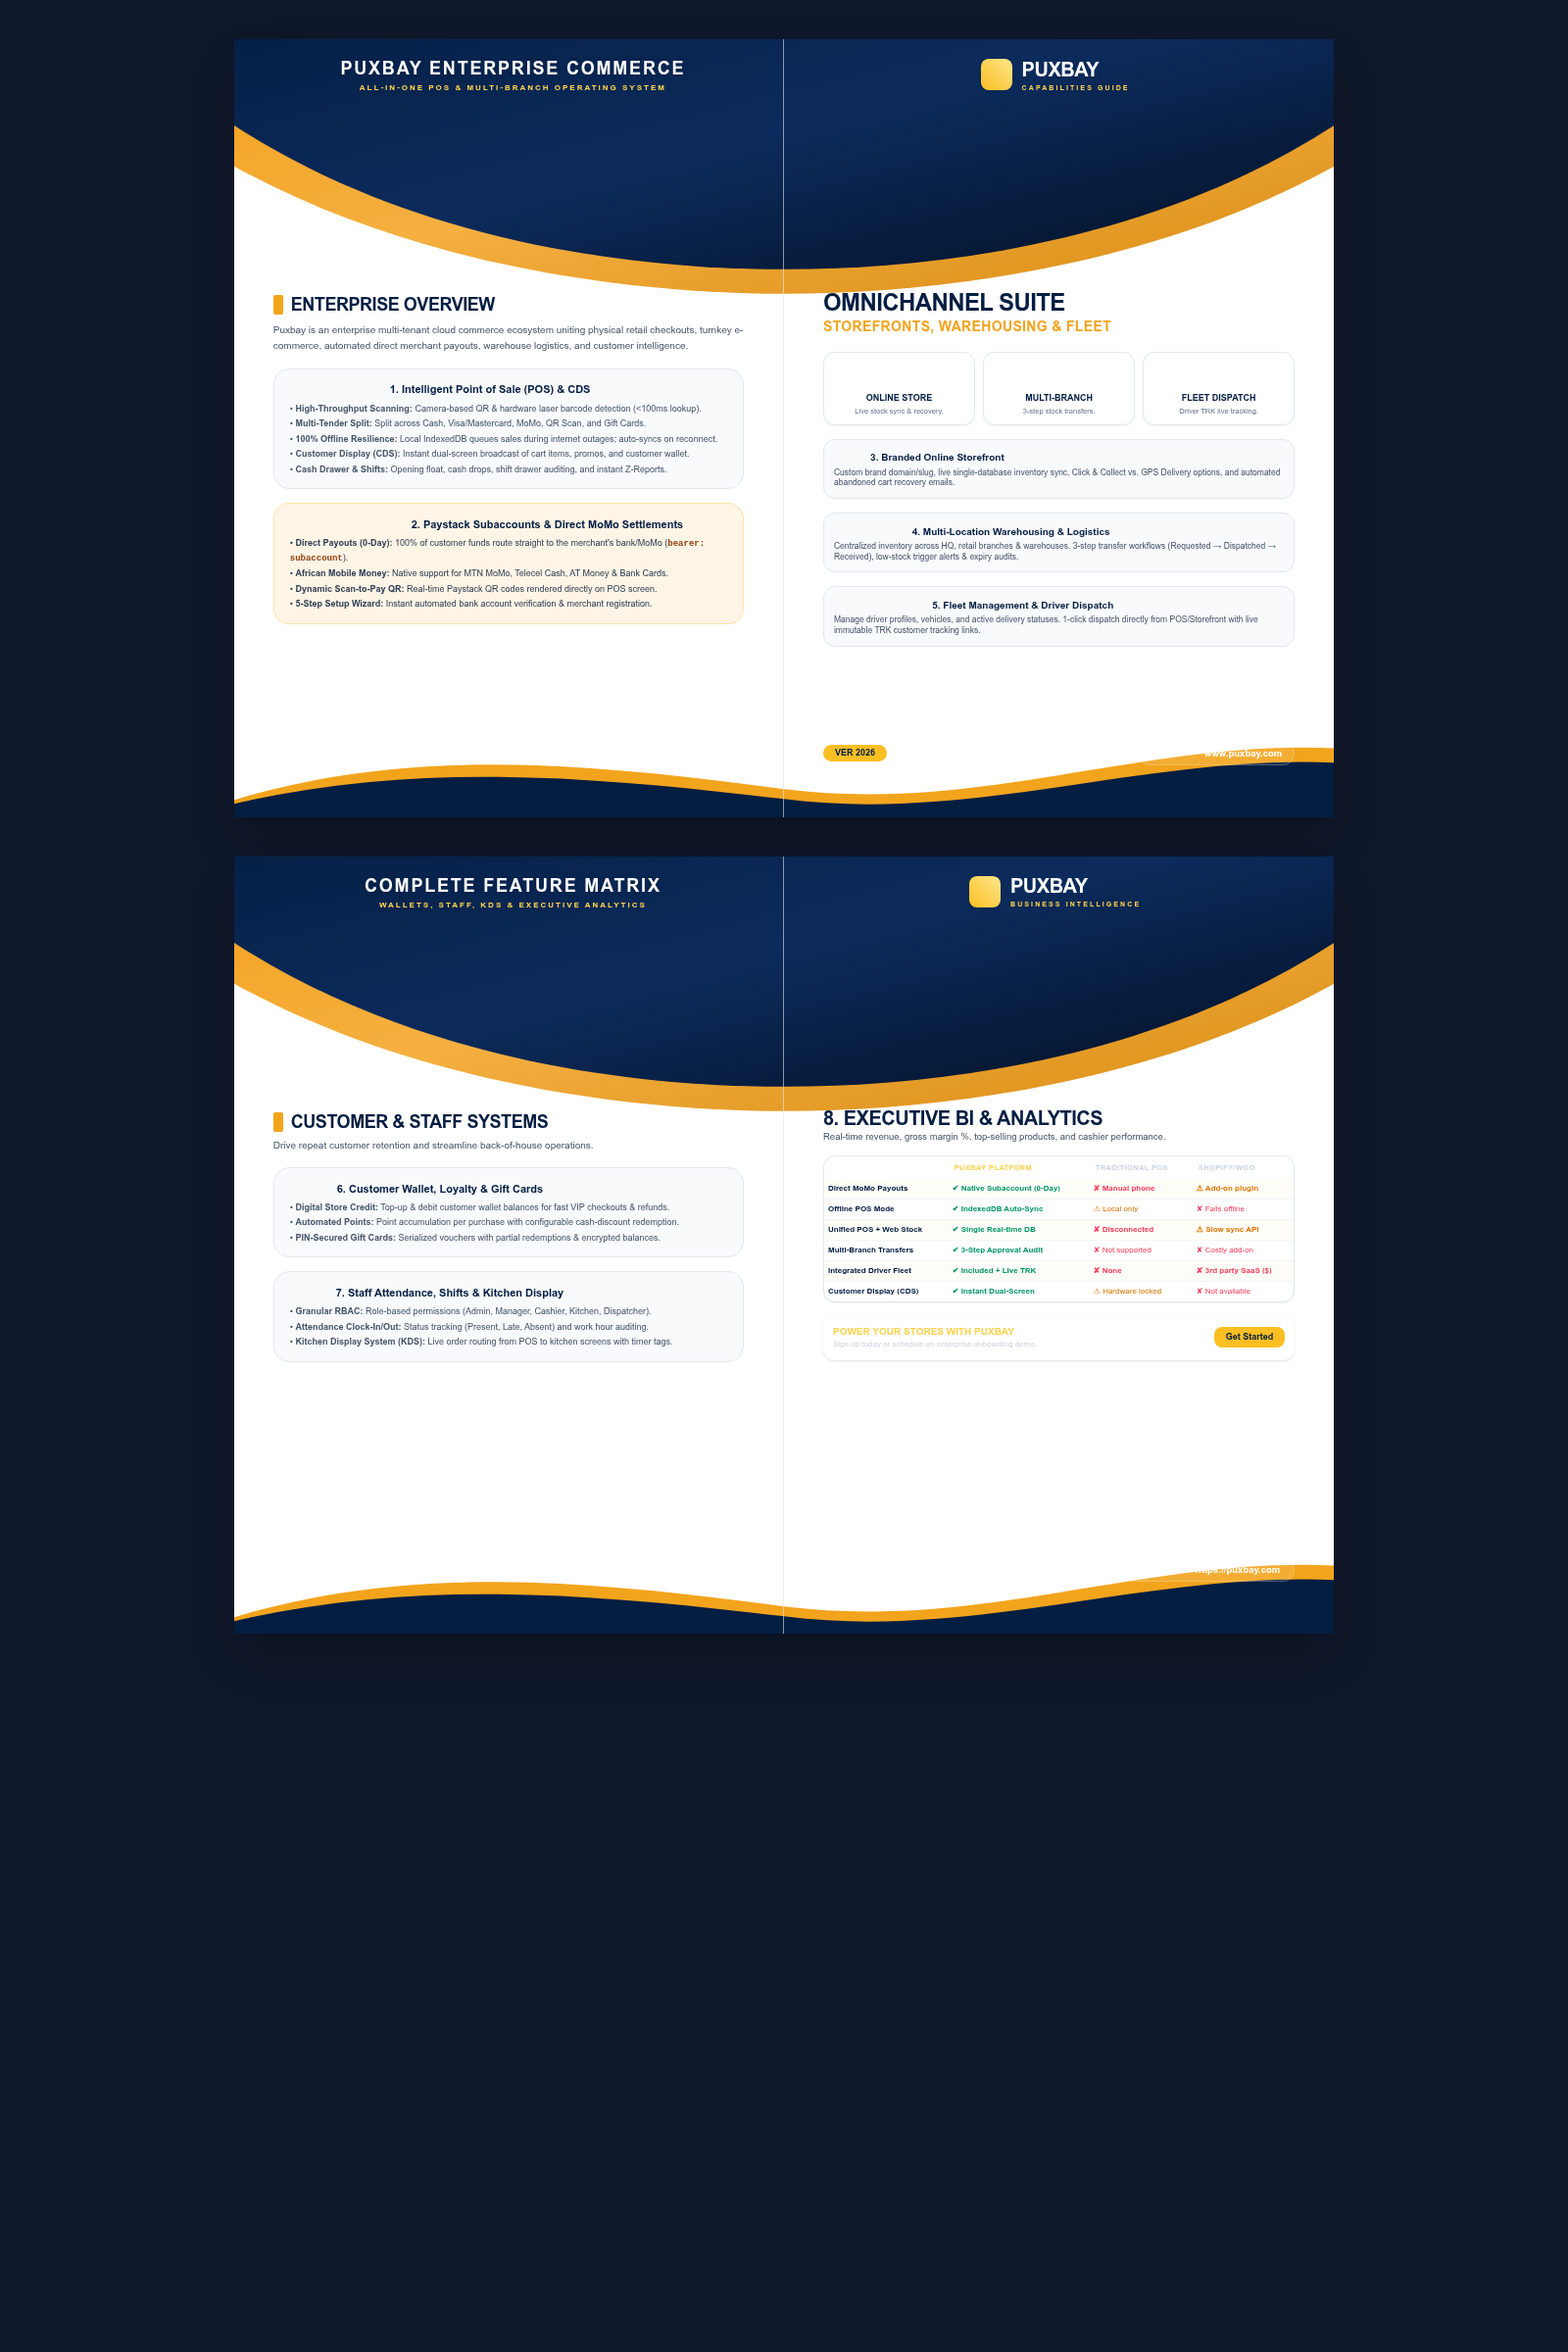
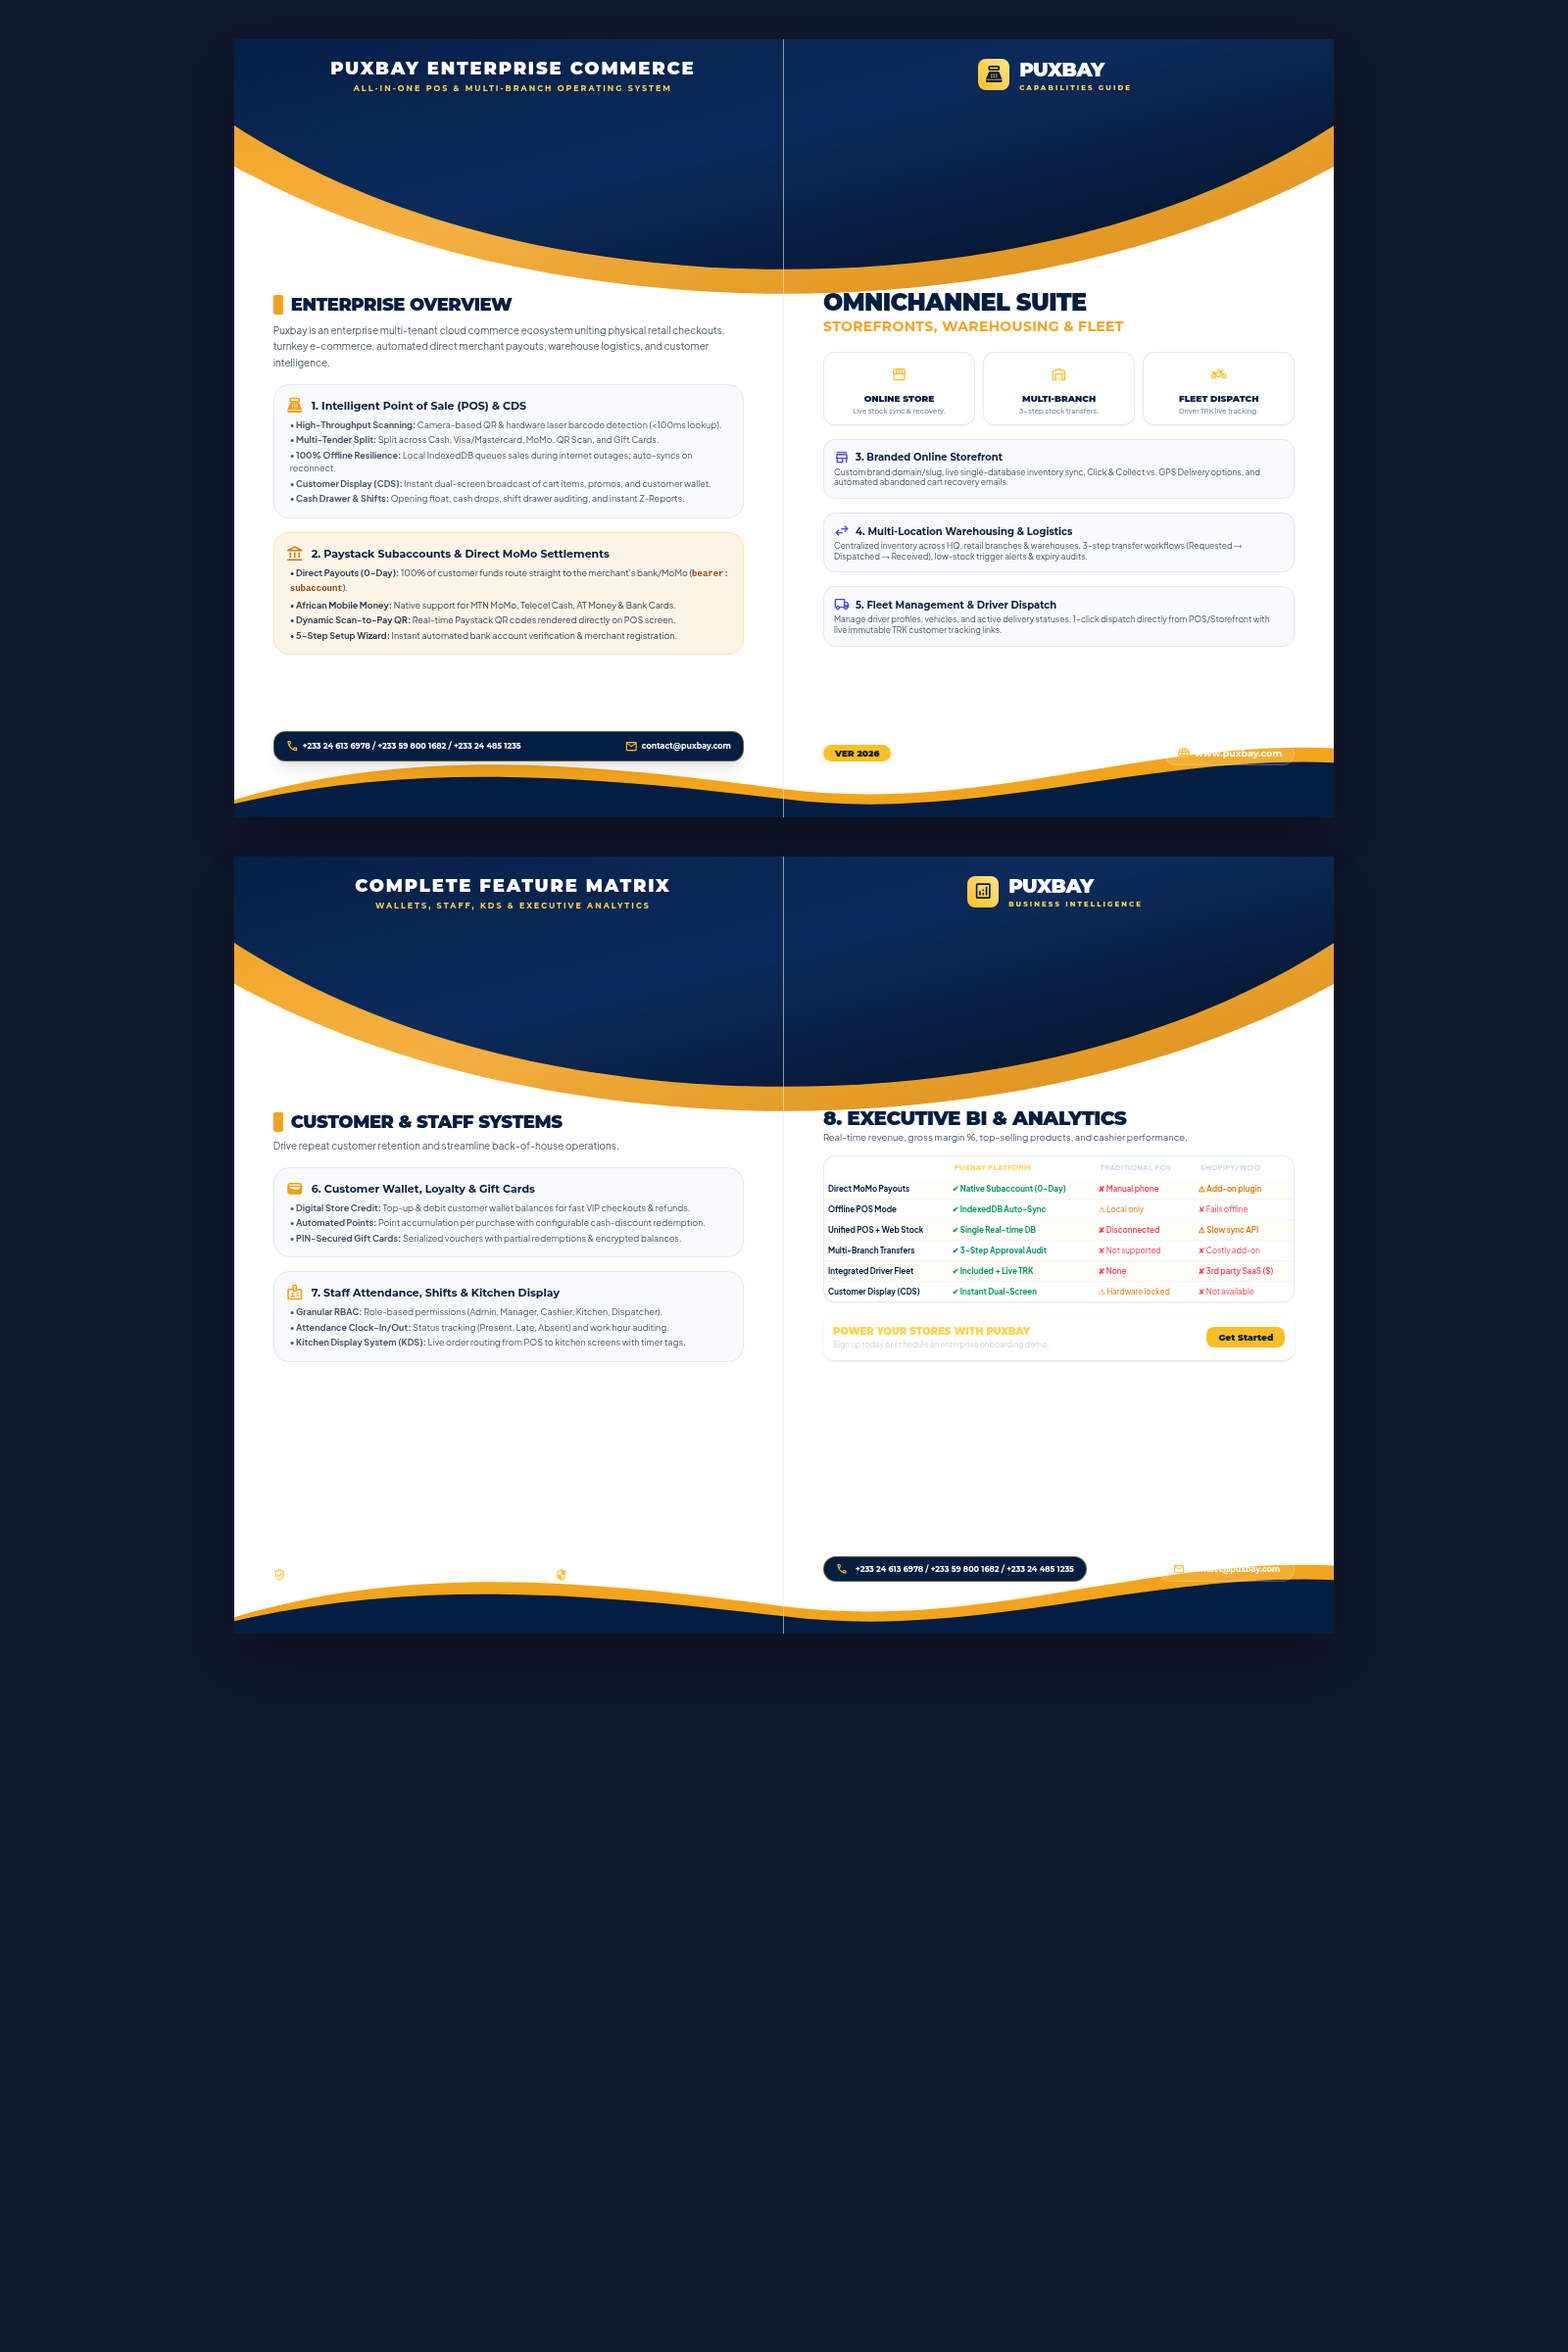
update

diff --git a/frontend/src/app/shared/components/receipt/receipt.component.ts b/frontend/src/app/shared/components/receipt/receipt.component.ts
@@ -1,5 +1,6 @@
-import { Component, Input, OnInit } from '@angular/core';
+import { Component, Input } from '@angular/core';
 import { CommonModule } from '@angular/common';
+import { ViewEncapsulation } from '@angular/core';
 import { AppCurrencyPipe } from '../../../core/pipes/app-currency.pipe';
 import { QRCodeComponent } from 'angularx-qrcode';
 
@@ -7,18 +8,20 @@ import { QRCodeComponent } from 'angularx-qrcode';
   selector: 'app-receipt',
   standalone: true,
   imports: [CommonModule, AppCurrencyPipe, QRCodeComponent],
+  // ViewEncapsulation.None so @media print styles apply globally (not shadow-scoped)
+  encapsulation: ViewEncapsulation.None,
   template: `
   <div id="print-receipt" class="legacy-receipt">
    <div class="header">
      <div class="store-logo" *ngIf="order?.tenant?.logo_url">
        <img [src]="order.tenant.logo_url" alt="Store Logo" style="max-height: 50px; margin-bottom: 10px;">
      </div>
-     <div class="store-name">{{ order?.branch?.name || order?.tenant?.name || 'THINKCE' }}</div>
+     <div class="store-name">{{ order?.branch?.name || order?.tenant?.name || 'PUXBAY STORE' }}</div>
      <div *ngIf="order?.branch?.address">{{ order?.branch?.address }}</div>
-     <div *ngIf="!order?.branch?.address">123 Commerce Avenue</div>
+     <div *ngIf="!order?.branch?.address">123 Commerce Avenue, Accra</div>
      <div *ngIf="order?.branch?.contact_email">{{ order?.branch?.contact_email }}</div>
      <div *ngIf="order?.branch?.phone">{{ order?.branch?.phone }}</div>
-     <div *ngIf="!order?.branch?.phone">+233 55 123 4567</div>
+     <div *ngIf="!order?.branch?.phone">+233 24 613 6978</div>
    </div>
 
    <div class="meta">
@@ -56,28 +59,46 @@ import { QRCodeComponent } from 'angularx-qrcode';
    </table>
 
    <div class="totals">
+     <div *ngIf="order?.discount_amount > 0" class="total-row subtotal-row">
+       <span>Subtotal</span>
+       <span>{{ ((order?.total_amount || order?.total) + (order?.discount_amount || 0)) | appCurrency }}</span>
+     </div>
+     <div *ngIf="order?.discount_amount > 0" class="total-row subtotal-row" style="color:#666;">
+       <span>Discount</span>
+       <span>-{{ order?.discount_amount | appCurrency }}</span>
+     </div>
      <div class="total-row">
        <span>TOTAL</span>
        <span>{{ (order?.total_amount || order?.total) | appCurrency }}</span>
+     </div>
+     <div *ngIf="order?.amount_paid > 0" class="total-row subtotal-row">
+       <span>Cash Paid</span>
+       <span>{{ order?.amount_paid | appCurrency }}</span>
+     </div>
+     <div *ngIf="order?.change_due > 0" class="total-row subtotal-row">
+       <span>Change</span>
+       <span>{{ order?.change_due | appCurrency }}</span>
      </div>
    </div>
 
    <div class="footer">
      <p>Thank you for shopping with us!</p>
      <p>Please keep this receipt for returns.</p>
-     
-     <div style="margin-top: 20px; padding: 15px; border: 1px solid #eee; border-radius: 8px;">
+     <div style="margin-top: 15px; padding: 12px; border: 1px solid #eee; border-radius: 8px;">
        <div style="font-weight: bold; margin-bottom: 5px;">Join MyWallet</div>
-       <div style="font-size: 10px; color: #666; margin-bottom: 10px;">Track points & receipts on your phone</div>
+       <div style="font-size: 10px; color: #666; margin-bottom: 10px;">Track points &amp; receipts on your phone</div>
        <qrcode [qrdata]="order?.order_number || '00000000'" [width]="100" [errorCorrectionLevel]="'M'"></qrcode>
      </div>
    </div>
   </div>
   `,
   styles: [`
+    /* ── Default: receipt is hidden in normal page view ── */
     #print-receipt {
       display: none;
     }
+
+    /* ── Receipt Styles (global since encapsulation is None) ── */
     .legacy-receipt {
       font-family: 'Courier New', Courier, monospace;
       font-size: 14px;
@@ -135,6 +156,10 @@ import { QRCodeComponent } from 'angularx-qrcode';
       font-size: 16px;
       margin-top: 5px;
     }
+    .legacy-receipt .subtotal-row {
+      font-size: 13px;
+      font-weight: normal;
+    }
     .legacy-receipt .footer {
       text-align: center;
       margin-top: 30px;
@@ -142,40 +167,32 @@ import { QRCodeComponent } from 'angularx-qrcode';
       border-top: 1px dashed #000;
       padding-top: 10px;
     }
-    ::ng-deep .legacy-receipt qrcode {
+    .legacy-receipt qrcode {
       display: flex;
       justify-content: center;
     }
 
+    /* ── Print Media: show receipt, hide everything else ── */
     @media print {
-      :host {
-        display: block !important;
-      }
-      ::ng-deep body * {
-        visibility: hidden;
-      }
-      ::ng-deep app-receipt, ::ng-deep app-receipt * {
-        visibility: visible;
-      }
-      ::ng-deep app-receipt {
-        position: absolute;
-        left: 0;
-        top: 0;
-        width: 100%;
-        margin: 0;
-        padding: 0;
+      body * {
+        visibility: hidden !important;
       }
       #print-receipt {
         display: block !important;
-        margin: 0 !important;
+        visibility: visible !important;
+        position: fixed !important;
+        left: 0 !important;
+        top: 0 !important;
         width: 100% !important;
-        padding: 0 !important;
+        max-width: 80mm !important;
+        margin: 0 auto !important;
+        padding: 10px !important;
+        background: #fff !important;
+        color: #000 !important;
+        z-index: 9999999 !important;
       }
-      .legacy-receipt {
-        padding: 10px;
-        margin: 0;
-      }
-      * {
+      #print-receipt * {
+        visibility: visible !important;
         color: #000 !important;
         background: transparent !important;
       }

diff --git a/frontend/src/app/features/pos/pos.facade.ts b/frontend/src/app/features/pos/pos.facade.ts
@@ -448,7 +448,6 @@ export class PosFacade {
 
     if (settings?.paystack_subaccount_code) {
       setupConfig.subaccount = settings.paystack_subaccount_code;
-      setupConfig.bearer = 'subaccount';
     }
 
     if ((window as any).PaystackPop) {
@@ -500,7 +499,6 @@ export class PosFacade {
 
     if (settings?.paystack_subaccount_code) {
       setupConfig.subaccount = settings.paystack_subaccount_code;
-      setupConfig.bearer = 'subaccount';
     }
 
     if ((window as any).PaystackPop) {
@@ -525,13 +523,10 @@ export class PosFacade {
     }
     // Generate a unique reference for this transaction
     const reference = `POS-QR-${Date.now()}-${Math.random().toString(36).substring(2, 7).toUpperCase()}`;
-    // Build a Paystack payment page URL as QR content
-    // The customer scans this and pays via their phone
     const email = this.selectedCustomer()?.email || 'pos-qr@puxbay.com';
     const amountInPesewas = Math.round(remaining * 100);
-    // Encode as Paystack inline URL so the popup opens on the customer device
     const qrUrl = `https://paystack.com/pay/?key=${encodeURIComponent(pubKey)}&email=${encodeURIComponent(email)}&amount=${amountInPesewas}&currency=GHS&ref=${reference}${
-      settings?.paystack_subaccount_code ? `&subaccount=${settings.paystack_subaccount_code}&bearer=subaccount` : ''
+      settings?.paystack_subaccount_code ? `&subaccount=${settings.paystack_subaccount_code}` : ''
     }`;
     this.qrPaymentData.set({ reference, amount: remaining, qrUrl });
     this.isQRModalOpen.set(true);

diff --git a/frontend/src/app/features/pos/pos/pos.html b/frontend/src/app/features/pos/pos/pos.html
@@ -536,9 +536,6 @@
     </div>
   </div>
 
-  <!-- EMBEDDED PRINT RECEIPT (Rendered on window.print()) -->
-  <app-receipt *ngIf="facade.checkoutSuccessOrder()" [order]="facade.checkoutSuccessOrder()"></app-receipt>
-
   <!-- PARKED SALES MODAL -->
   <div *ngIf="facade.isParkedSalesModalOpen()" class="fixed inset-0 bg-slate-900/60 backdrop-blur-sm z-[100] flex items-center justify-center p-6 animate-in fade-in duration-200">
     <div class="bg-white dark:bg-slate-800 w-full max-w-2xl rounded-3xl shadow-2xl overflow-hidden flex flex-col max-h-[80vh] border border-slate-200 dark:border-slate-700 animate-in zoom-in-95 duration-300 ease-out">
@@ -810,8 +807,9 @@
       </div>
     </div>
   </div>
+}
 
-  <!-- GIFT CARD PROMPT MODAL -->
+<!-- GIFT CARD PROMPT MODAL -->
   @if (isGiftCardPromptOpen()) {
     <div class="fixed inset-0 bg-slate-900/60 backdrop-blur-sm z-[200] flex items-center justify-center p-6 animate-in fade-in duration-200">
       <div class="bg-white dark:bg-slate-800 w-full max-w-sm rounded-3xl shadow-2xl overflow-hidden flex flex-col border border-slate-200 dark:border-slate-700 animate-in zoom-in-95 duration-300 ease-out">
@@ -917,4 +915,5 @@
   </div>
 }
 
-}
+<!-- EMBEDDED PRINT RECEIPT (Rendered on window.print()) -->
+<app-receipt *ngIf="facade.checkoutSuccessOrder()" [order]="facade.checkoutSuccessOrder()"></app-receipt>

diff --git a/frontend/src/app/features/pos/pos/pos.ts b/frontend/src/app/features/pos/pos/pos.ts
@@ -38,15 +38,31 @@ import { ReceiptComponent } from '../../../shared/components/receipt/receipt.com
       animation: pulse-gradient 2s infinite;
     }
     @media print {
-      #pos-app {
+      body * {
+        visibility: hidden;
+      }
+      #pos-app, .no-print {
         display: none !important;
+      }
+      app-receipt, app-receipt *, #print-receipt, #print-receipt * {
+        visibility: visible !important;
+      }
+      app-receipt {
+        display: block !important;
+        position: fixed !important;
+        left: 0 !important;
+        top: 0 !important;
+        width: 100% !important;
+        margin: 0 !important;
+        padding: 0 !important;
+        background: #fff !important;
+        z-index: 9999999 !important;
       }
       #print-receipt {
         display: block !important;
-        position: absolute;
-        top: 0;
-        left: 0;
-        width: 100%;
+        margin: 0 auto !important;
+        width: 100% !important;
+        max-width: 80mm !important;
       }
     }
 

diff --git a/frontend/src/app/features/storefront/public-storefront/public-storefront.ts b/frontend/src/app/features/storefront/public-storefront/public-storefront.ts
@@ -273,7 +273,6 @@ export class PublicStorefront implements OnInit {
     // Route directly to tenant's Paystack subaccount
     if (settings?.paystack_subaccount_code) {
       setupConfig.subaccount = settings.paystack_subaccount_code;
-      setupConfig.bearer = 'subaccount';
     }
 
     if ((window as any).PaystackPop) {

diff --git a/frontend/src/app/features/store/checkout/checkout.component.ts b/frontend/src/app/features/store/checkout/checkout.component.ts
@@ -248,7 +248,6 @@ export class CheckoutComponent implements OnInit {
 
     if (settings!.paystack_subaccount_code) {
       setupConfig.subaccount = settings!.paystack_subaccount_code;
-      setupConfig.bearer = 'subaccount';
     }
 
     const handler = (window as any).PaystackPop.setup(setupConfig);
